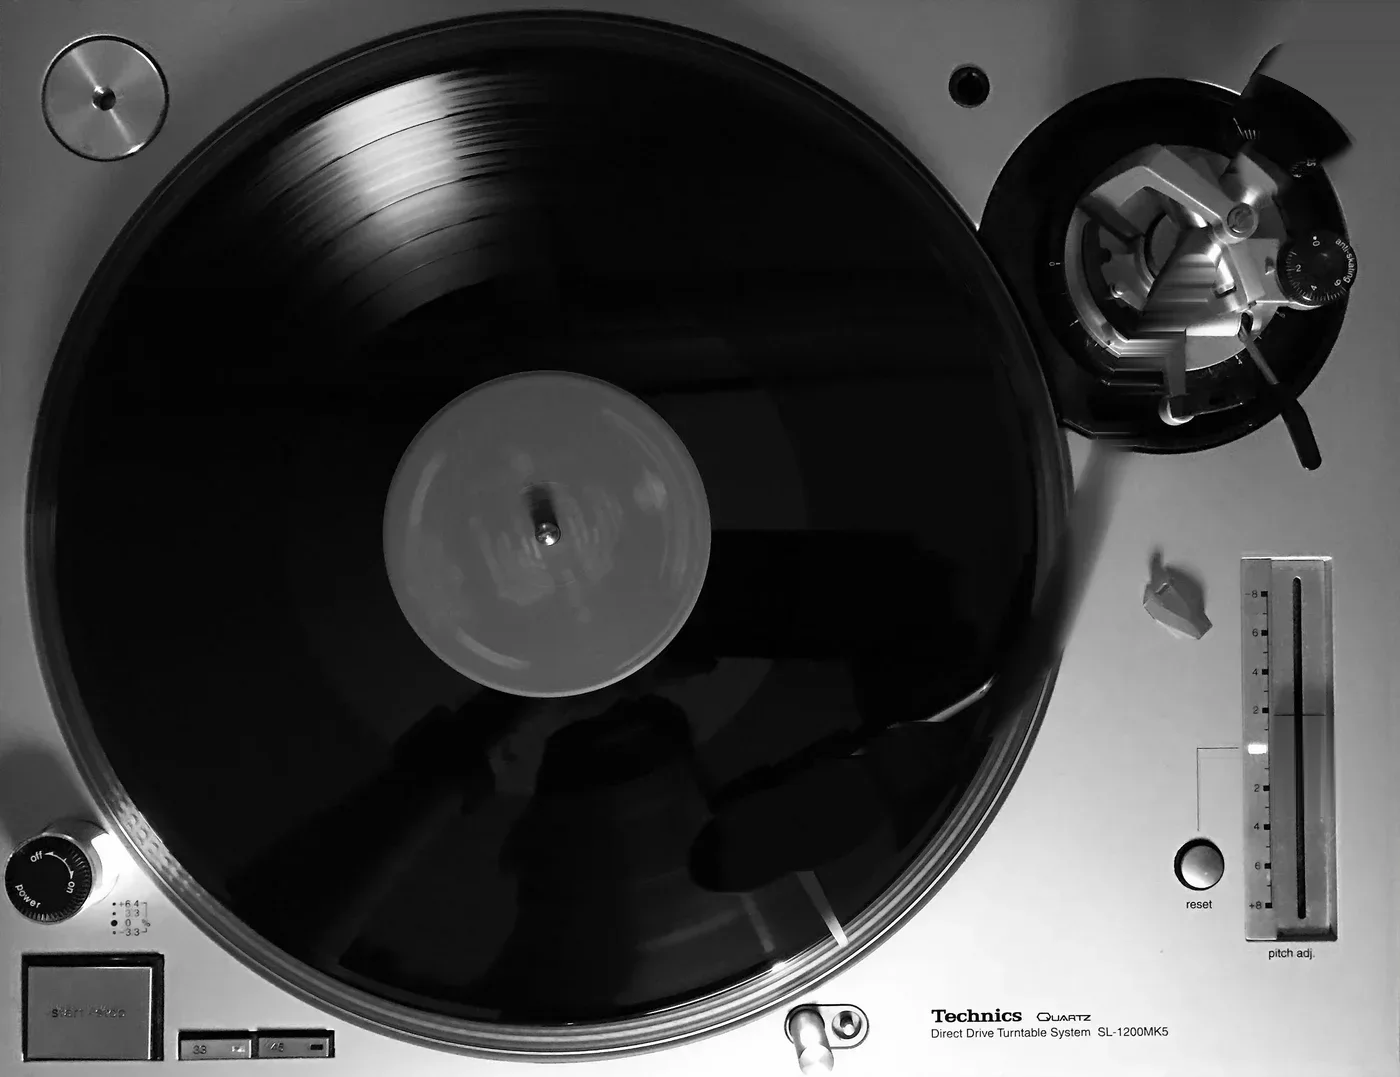
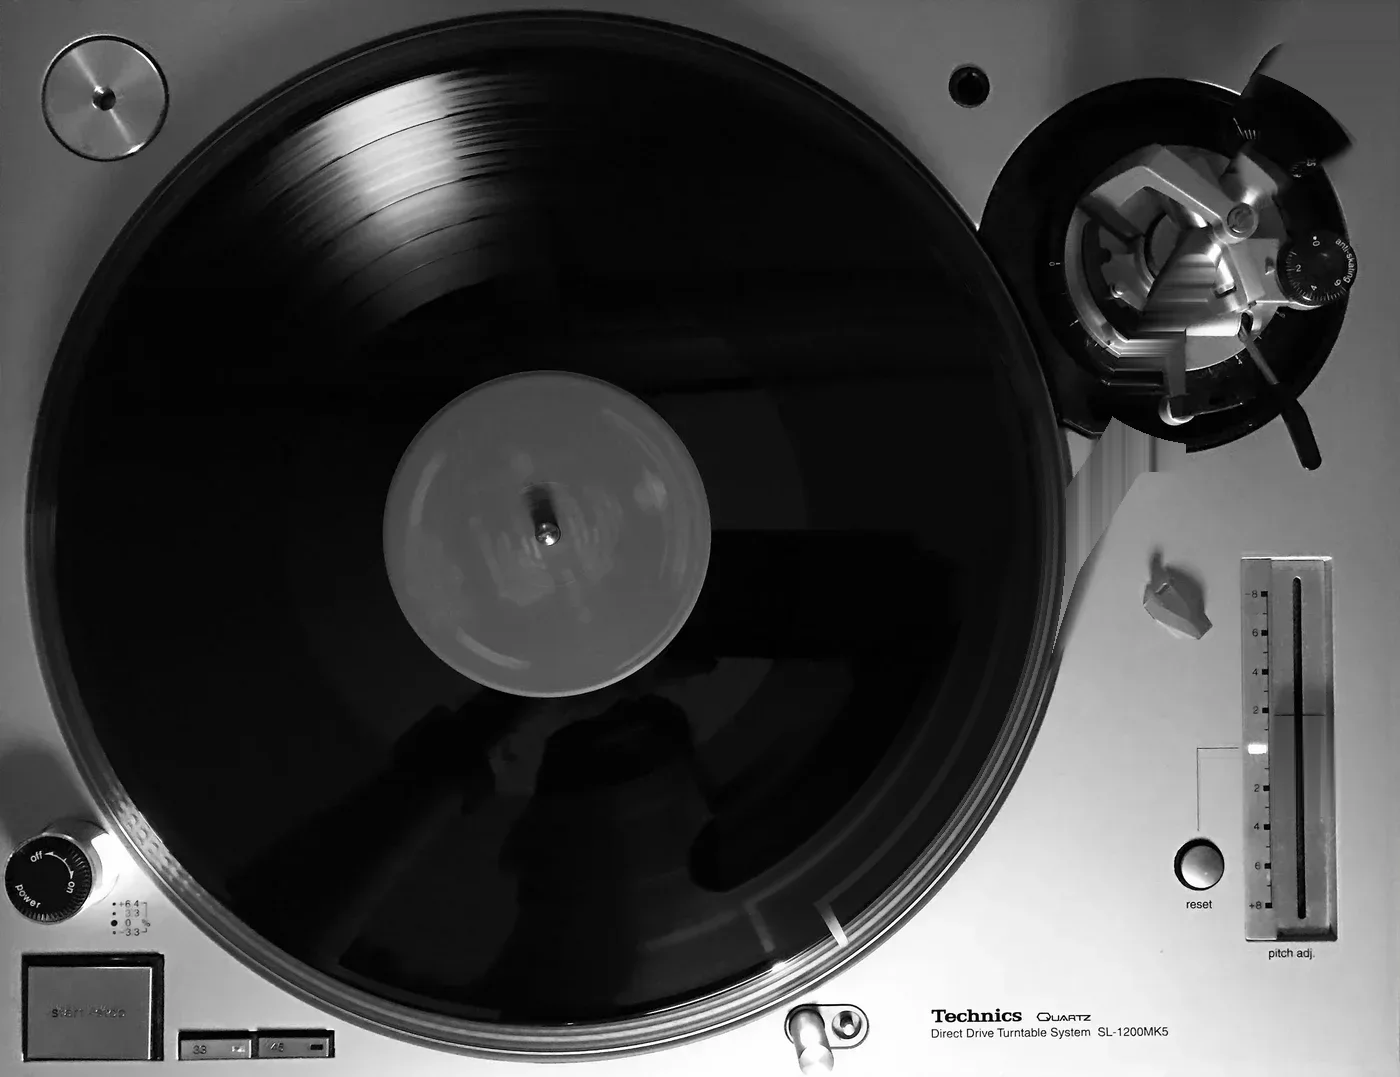
Der Geist des Tonarms lag noch im Bild — und der Arm schwenkte falsch
Zwei Funde der Sonarium-Sitzung, beide nachgerechnet statt geglaubt.

DER GEIST. Beim Freistellen wurde der Arm entfernt, seine Spiegelung auf
dem Vinyl und sein Schatten auf der Zarge nicht. Sie passten damit zu
genau einer Armstellung und standen in der Ruhe frei sichtbar auf der
Platte. Ihr Werkzeug lief hier unveraendert und kam auf dieselbe Zahl:
78.017 Punkte ersetzt, entlang von Kreisen um die Tellermitte auf der
Platte, senkrecht auf der Zarge, die Lagerplatte unberuehrt.

DER DREHPUNKT. Hier stand 85,33 % / 25,35 %, geschaetzt. Der SL-1200 hat
230 mm effektive Laenge; im Foto sind das 791 Punkte. Der alte Punkt lag
707 von der Nadel entfernt — 10,6 % zu kurz, der neue 779, also 1,5 %.
An der Nadel sieht man es kaum, hinten schon: Das Gegengewicht schwang
um einen Drittel zu grossen Halbmesser.

Nicht gelungen ist das Freistellen des Kardanlagers. Warum, steht in
HERKUNFT.md — blankes Metall gegen schwarze Grundplatte trennt keine
Helligkeitsschwelle, und hinter dem geschwenkten Joch muesste eine
Grundplatte stehen, die es im Bild nicht zu sehen gibt.

SW_VERSION v47 -> v48.

Changed region(s): [[0.645, 0.3983, 0.86, 0.7047], [0.645, 0.7354, 0.6757, 0.766], [0.5836, 0.766, 0.6143, 0.7967]]

diff --git a/assets/styles.css b/assets/styles.css
@@ -462,7 +462,23 @@ body.stimmt-432 .stimmung__mehr {
 /* Der Tonarm — dieselbe Aufnahme, nur herausgeschnitten.
 
    Er liegt als eigene Ebene deckungsgleich ueber dem Deck und schwenkt um
-   sein Lager. Der Drehpunkt ist am Foto abgemessen: 85,33 % / 25,35 %.
+   sein Lager.
+
+   DER DREHPUNKT WAR FALSCH, berichtigt am 07.09.2026. Hier stand
+   85,33 % / 25,35 % — am Foto abgeschaetzt, nicht nachgerechnet. Die
+   Sonarium-Sitzung hat nachgemessen, und die Rechnung geht auf:
+
+     Nadel im Alphakanal          (793, 855)
+     Plattenhalbmesser            519 Punkte = 151 mm, macht 3,44 Pkt/mm
+     SL-1200, effektive Laenge    230 mm = 791 Punkte
+     alter Punkt -> Nadel         707 Punkte  = 10,6 % zu kurz
+     neuer Punkt -> Nadel         779 Punkte  =  1,5 % daneben
+
+   Der neue Punkt liegt auf dem sichtbaren Lagerbolzen: 88,4 % / 20,0 %.
+
+   Sichtbar wird der Fehler nicht an der Nadel — die wandert nur um zwanzig
+   Punkte — sondern hinten: Das Gegengewicht schwang um einen Halbmesser von
+   266 statt 197 Punkten, also ein Drittel zu weit.
 
    Was darunter lag, ist im Deckbild ersetzt: die Platte durch eine um 60°
    gedrehte Kopie ihrer selbst (sie ist kreisrund, das passt fugenlos), die
@@ -470,7 +486,7 @@ body.stimmt-432 .stimmung__mehr {
 .tonarm {
     position: absolute; inset: 0;
     width: 100%; height: auto;
-    transform-origin: 85.33% 25.35%;
+    transform-origin: 88.4% 20%;
     /* Ruhe: der Arm liegt in seiner Ablage — dem kleinen Keil zwischen
        Teller und Pitchregler. Der Winkel ist nicht geschaetzt: Die Ablage
        liegt bei 83,7 % / 55,2 %, also 334 px vom Lager in Richtung 93,8°.

diff --git a/sw.js b/sw.js
@@ -99,7 +99,11 @@
 // v27: retuner.wasm und retuner-worklet.js haben denselben Namen, aber
 // anderen Inhalt — die gute Engine ist dazugekommen. Ohne neue Fassung
 // behielte jeder bestehende Besucher fuer immer die alte Datei.
-const SW_VERSION = 'iyambae-v47';
+// v48: Der Tonarm schwenkte um einen falschen Punkt — 10,6 % zu kurz —
+// und im Deckbild lag der Geist des Arms: seine Spiegelung auf dem Vinyl
+// und sein Schatten auf der Zarge, beim Freistellen stehen geblieben.
+// styles.css und plattenspieler.webp.
+const SW_VERSION = 'iyambae-v48';
 const SHELL_CACHE = `${SW_VERSION}-shell`;
 const RUNTIME_CACHE = `${SW_VERSION}-runtime`;
 

diff --git a/assets/bild/HERKUNFT.md b/assets/bild/HERKUNFT.md
@@ -47,3 +47,61 @@ Was der Arm im Original verdeckte, ist ersetzt:
 
 Die Spur des Arms wurde nicht geschaetzt, sondern gemessen: zeilenweise
 nach dem hellen Grat mit dunklen Raendern gesucht.
+
+
+## Berichtigt am 07.09.2026 — zwei Fehler, beide von der Sonarium-Sitzung gefunden
+
+**1 · Der Geist des Arms lag noch im Deckbild.** Beim Freistellen wurde der
+Arm entfernt, seine **Spiegelung auf dem Vinyl** und sein **Schatten auf der
+Zarge** aber nicht. Sie lagen weiter dort, wo der Arm beim Fotografieren
+lag — und passten deshalb zu genau einer Armstellung. Sichtbar wurde es in
+der Ruhe (`rotate(-16deg)`), wo der Arm die Spuren nicht verdeckt.
+
+Die Maske dafuer ist der Arm selbst: der Alphakanal von `tonarm.webp`, um
+46 Punkte verbreitert. Genauer geht es nicht — dort und nur dort war er.
+Gefuellt wurde in zwei Richtungen, jede nach der Form des Gegenstands:
+
+| Auf der Platte | entlang von Kreisen um die Tellermitte — eine Schallplatte ist rotationssymmetrisch schattiert |
+| Auf der Zarge | senkrecht, denn dort laeuft die Schattierung in Streifen |
+
+78.017 Punkte ersetzt. Die Lagerplatte — der schwarze Kreis, in dem der
+Kran sitzt — bleibt unberuehrt. Das Werkzeug liegt in
+`iyambae-lifetree/apps`, Zweig `sonarium-a1-geruest`, als
+`sonarium/Bauen/geist-herausrechnen.swift`; es lief hier unveraendert und
+kam auf dieselbe Zahl.
+
+**2 · Der Drehpunkt des Arms war falsch.** Hier stand 85,33 % / 25,35 %,
+abgeschaetzt statt nachgerechnet. Richtig ist der sichtbare Lagerbolzen bei
+**88,4 % / 20,0 %**:
+
+```
+Nadel im Alphakanal        (793, 855)
+Plattenhalbmesser          519 Punkte = 151 mm  ->  3,44 Punkte je mm
+SL-1200, effektive Laenge  230 mm = 791 Punkte
+alter Punkt -> Nadel       707 Punkte  = 10,6 % zu kurz
+neuer Punkt -> Nadel       779 Punkte  =  1,5 % daneben
+```
+
+An der Nadel faellt der Fehler kaum auf — sie wandert um zwanzig Punkte.
+Hinten schon: Das Gegengewicht schwang um einen Halbmesser von 266 statt
+197 Punkten, ein Drittel zu weit.
+
+## Was NICHT geht: das Kardanlager freistellen
+
+Sāmi-Ra wollte, dass der Kran mit dem Arm schwenkt — er gehoert dazu.
+Versucht am 07.09.2026, am Original in 3000 x 2308, und **gescheitert**.
+
+Der Grund ist nicht Faulheit, sondern der Gegenstand: Blankes Metall gegen
+schwarze Grundplatte laesst sich nicht ueber die Helligkeit trennen. Bei
+jeder Schwelle, die den aeusseren Ring und die eingravierten Skalen
+draussen laesst, fallen die beschatteten Teile des Jochs mit heraus; bei
+jeder, die sie mitnimmt, kommen die Anti-Skating-Beschriftung und der
+Zargenrand mit. Es entstehen Fetzen, keine Form.
+
+Dazu kaeme das schwerere Problem: Hinter dem geschwenkten Joch muesste die
+Grundplatte stehen — mit Skalenring und Schrauben. Die gibt es dort nicht
+zu sehen, sie muesste erfunden werden.
+
+**Es braucht eine von Hand geschnittene Maske.** Bis es sie gibt, steht der
+Kran still. Ein misslungener Ausschnitt waere schlechter als ein Lager, das
+sich nicht dreht.
